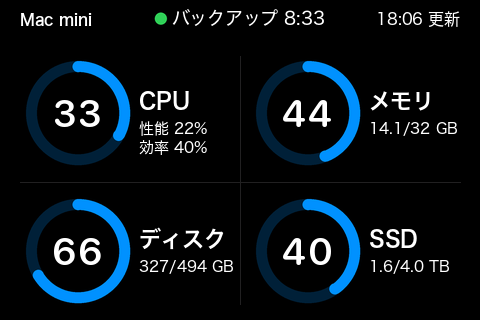
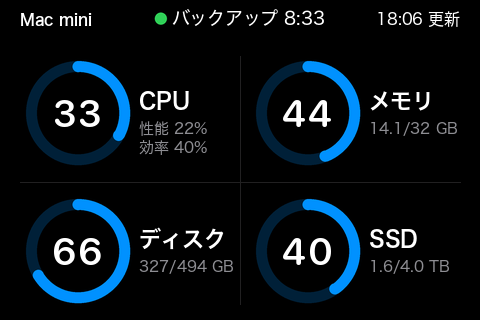
fix(monitor): 3.5 インチの下の行（しきい値・量）の色を灰色に戻す
実機を見たユーザーの指示（白だと画面ががちゃがちゃする）。15 px・位置・% を外した数字はそのまま。
白にする指定（bright_detail）は使わなくなったので消した。README の横置きの 5 枚を描き直した。

diff --git a/claude_usage_display/monitor_screen.py b/claude_usage_display/monitor_screen.py
@@ -60,7 +60,6 @@ class _Layout:
     number: tuple[float, float, int, int, bool]  # 数字の位置・大きさ・% の大きさ（0 なら出さない）・中央にそろえるか
     threshold: tuple[float, float, str, int]     # しきい値の位置・anchor・大きさ
     dividers: tuple[tuple[float, float, float, float], ...]
-    bright_detail: bool = False                  # しきい値（下の行）を、薄い灰色ではなく名前と同じ色にする
 
 
 LANDSCAPE = _Layout(
@@ -72,14 +71,14 @@ LANDSCAPE = _Layout(
     status_size=18, alert_size=18, dot_radius=6, stamp_size=16, tall_pill=None, tall_baselines=None,
     # 数字をリングの中に入れ、名前としきい値をリングの右で縦の中ほどに置く（2026-10-15、ユーザーが見本で選んだ）。
     # 名前は、実機を見たユーザーの指示で 18→22 にした（2026-10-27、見本で選んだ）。
-    # 続けて、ユーザーの指示「視認性を上げる」で、しきい値（下の行）を灰色から名前と同じ白にして 14→15 にし、
-    # リングの中の % を外して数字を 30→38 にした（同日、見本で選んだ案 B）。15 ピクセルの下の行を区切り線の手前に
-    # 収めるため、名前と下の行を 126→119 へ寄せた（リングの外側 110 との間は 9）。左の列の「しきい値 80%」
-    # （15 ピクセルで幅 99）の右端は 238 で、区切り線（240）の 2 ピクセル手前。しきい値は 2 桁の整数まで収まる。
-    # 「ディスク」（22 ピクセルで幅 87）の右端は 226。数字の「100」（幅 71）はリングの内側（直径 82）に収まる
+    # 続けて、ユーザーの指示「視認性を上げる」で、しきい値（下の行）を 14→15 にし、リングの中の % を外して
+    # 数字を 30→38 にした（同日、見本で選んだ案 B）。しきい値を名前と同じ白にもしたが、実機を見たユーザーが
+    # 「がちゃがちゃする」として灰色に戻した。15 ピクセルの下の行を区切り線の手前に収めるため、名前と下の行を
+    # 126→119 へ寄せた（リングの外側 110 との間は 9）。左の列の「しきい値 80%」（15 ピクセルで幅 99）の右端は 238 で、
+    # 区切り線（240）の 2 ピクセル手前。しきい値は 2 桁の整数まで収まる。「ディスク」（22 ピクセルで幅 87）の
+    # 右端は 226。数字の「100」（幅 71）はリングの内側（直径 82）に収まる
     cells=((20, 44), (250, 44), (20, 182), (250, 182)), ring=(58, 69, 52, 11), label=(119, 65, "ls", 22),
-    number=(58, 83, 38, 0, True), threshold=(119, 90, "ls", 15), dividers=((240, 56, 240, 304), (20, 182, 460, 182)),
-    bright_detail=True)
+    number=(58, 83, 38, 0, True), threshold=(119, 90, "ls", 15), dividers=((240, 56, 240, 304), (20, 182, 460, 182)))
 PORTRAIT = _Layout(
     size=(320, 480), inset=16, title_baseline=26, pill=(16, 38, 304, 70), status_baseline=60, dot_y=53.5,
     # 監視の状態は、実機を見たユーザーの指示で大きくした（2026-10-11。文言 13→18、帯の中 15→18）。
@@ -305,6 +304,5 @@ def render(status: ServerStatus | None, assessment: Assessment | None, config: M
         line_step = max(DETAIL_LINE, threshold_size + 4)  # 14 ピクセルまでは 18、大きくしたら字に合わせて広げる
         for line_index, line in enumerate(lines):
             draw.text((x + threshold_x, y + threshold_y + line_step * line_index), line,
-                      font=font(threshold_size, SMALL_WEIGHT), fill=strong if layout.bright_detail else faint,
-                      anchor=threshold_anchor)
+                      font=font(threshold_size, SMALL_WEIGHT), fill=faint, anchor=threshold_anchor)
     return image

diff --git a/tests/test_monitor_screen.py b/tests/test_monitor_screen.py
@@ -7,7 +7,7 @@ from PIL import Image
 
 from claude_usage_display import monitor_screen as ms
 from claude_usage_display import server_monitor as sm
-from claude_usage_display.gauge import BACKGROUND, ICON_GAP, ICON_SIZE, ORANGE, RED
+from claude_usage_display.gauge import BACKGROUND, ICON_GAP, ICON_SIZE, ORANGE, RED, SECONDARY
 from claude_usage_display.render import SMALL_WEIGHT, font
 from tests.test_server_monitor import NOW, config, status
 
@@ -57,14 +57,16 @@ class MonitorScreenTest(unittest.TestCase):
         end = ms.LANDSCAPE.cells[0][0] + threshold_x + font(threshold_size, SMALL_WEIGHT).getlength("しきい値 85%")
         self.assertLess(end, ms.LANDSCAPE.dividers[0][0])
 
-    def test_landscape_detail_is_white_and_the_number_has_no_percent_sign(self):
-        # 2026-10-27、視認性を上げるため、しきい値を灰色から白にして 14→15 ピクセルにし、% を外して数字を 30→38 にした
+    def test_landscape_detail_stays_gray_and_the_number_has_no_percent_sign(self):
+        # 2026-10-27、視認性を上げるため、しきい値を 14→15 ピクセルにし、% を外して数字を 30→38 にした。
+        # しきい値を白にもしたが、実機を見たユーザーが「がちゃがちゃする」として灰色に戻した
         image = self.render(status())
         x, y = ms.LANDSCAPE.cells[0]
         threshold_x, threshold_y, _, size = ms.LANDSCAPE.threshold
         band = [image.getpixel((x + px, y + py)) for px in range(threshold_x, threshold_x + 60)
                 for py in range(threshold_y - size, threshold_y + 2)]
-        self.assertTrue(any(min(p) > 240 for p in band))  # 灰色のときは明るくても 147
+        self.assertTrue(any(near(p, SECONDARY, 8) for p in band))
+        self.assertFalse(any(min(p) > 200 for p in band))  # 白い字が無い（灰色は明るくても 147）
         _, _, number_size, unit_size, _ = ms.LANDSCAPE.number
         self.assertEqual(unit_size, 0)
         _, _, radius, width = ms.LANDSCAPE.ring

diff --git a/docs/handover.md b/docs/handover.md
@@ -442,6 +442,7 @@ scripts/uninstall-launch-agent.sh                                 # 自動起動
   - 5.2 インチ: 「あと…」を灰色の 32 ピクセルから白の 38 ピクセルに（案 A の大きさ）、数字を 76→108 ピクセルにして % を外す（案 B の大きさ）。`gauge.LARGE` の `remain_pt`・`remain_color`・`number`・`percent_sign`。「リセット」の見出しは灰色のまま。38 ピクセルにすると字の下端が 0.55 ピクセル下がり、下の余白が左右の 27 ピクセルを下回る（`test_content_is_enlarged_and_still_fits`）ので、`remain_gap` を 22→21.75 にした（日時との間は 24→18 ピクセル）。名前の位置は変わらない（`content_top` は `remain_pt` を既定に戻して測る）
   - 3.5 インチ 2 台（案 B）: 下の行（しきい値・量・性能と効率）を灰色から名前と同じ色（赤の画面では、異常の項目は白・ほかは薄い色）にし、14→15 ピクセルにした。数字は 30→38 ピクセルにして % を外した。15 ピクセルの「しきい値 80%」（幅 99）を区切り線の手前に収めるため、名前と下の行を 126→119 へ寄せた（リングとの間は 16→9）。CPU の 2 行の間は 18→19。`monitor_screen.LANDSCAPE` の `bright_detail`・`number`（% の大きさ 0 は出さない）・`threshold`・`label`。縦置き（`PORTRAIT`）は変えていない
   - 16 ピクセル（案 C）は、リングも左へ寄せる必要があり、リングと文字の間が 7 ピクセルまで詰まるので選ばれなかった
+  - **3.5 インチの下の行の白は、同じ日に灰色へ戻した。**実機を見たユーザーの指示「3.5 インチはがちゃがちゃするからやっぱりしきい値のフォントカラーは元に戻して」。15 ピクセル・左へ寄せた位置・% を外した 38 ピクセルの数字はそのまま。白にする指定（`bright_detail`）は使わなくなったので消した。テストは `test_landscape_detail_stays_gray_and_the_number_has_no_percent_sign` に書き直した。README の横置きの 5 枚も描き直した（変わったのは下の行だけ）
 - Gemini の枠を足した画面（`render_with_gemini`。いまは使っていない）は、`_remain_style` を共有するので、「あと…」が白の 32 ピクセル（前は灰色の 27）になる。カードに収まることを画像で確かめた。この画面のリングの数字と % は変えていない
 - 確かめたこと: 値を足す前に、既定のまま描いた 3 画面が直す前と 1 ピクセルも違わないこと。3.5 インチの実装が見本の案 B と 1 ピクセルも違わないこと。テストは 192 件すべて通過（足したのは `test_number_is_larger_without_percent_sign`・`test_landscape_detail_is_white_and_the_number_has_no_percent_sign`。`test_remaining_time_is_written_like_the_reset_caption` は `test_remaining_time_is_white_and_larger` に書き直した）
 - README の画像: 5.2 インチの 2 枚（`gauge-1280x720`・`gauge-gemini-1280x720`。10-15 08:58・08:34）と、3.5 インチの横置きの 5 枚を、前と同じ時刻で描き直した。いまのコードで描くと前の画像と 1 ピクセルも違わないことを先に確かめ、3.5 インチは見出しが変わらないことも確かめた
